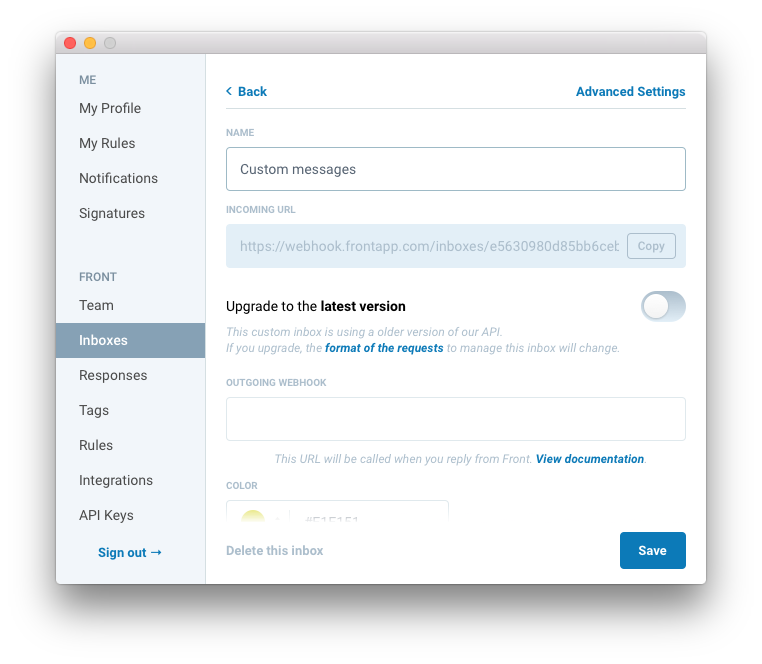
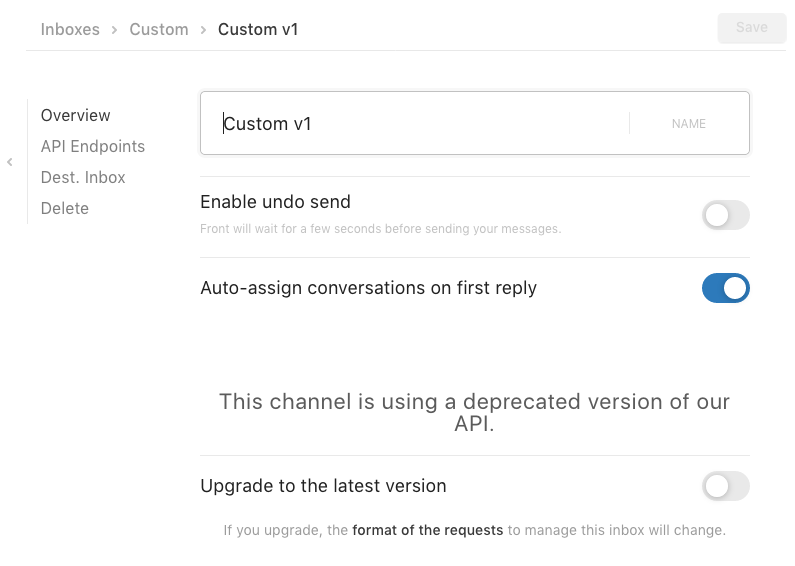
Update migration guide to match the new design

diff --git a/source/migration-guide.html.md b/source/migration-guide.html.md
@@ -49,7 +49,7 @@ If your custom inbox is used by <a href="https://aircall.io/features/front-integ
 
 **Step 2:** If you have one, update the script receiving the reply notification from Front to handle the [new data format](/#sending-messages).
 
-**Step 3:** In the application, go to Settings > Inboxes, select the custom inbox you want to upgrade and click on the switch to "Upgrade to the latest version"
+**Step 3:** In the application, go to Settings > Inboxes > select the inbox > select the channel you want to upgrade and click on the switch to "Upgrade to the latest version"
 
 # Webhooks
 
@@ -59,6 +59,8 @@ The new version of the webhooks uses the new data structure for [events](/#event
 
 To ensure that your data can only be read by you, we now send only the type, ID and link of the resources of an event. You can then simply send an authenticated request to the provided link to fetch the details about an event.
 
+We also now sign the webhooks so you can check the data integrity. 
+
 ## How to upgrade?
 
 > ![Upgrade webhooks](migration-guide/webhooks.png)
@@ -66,4 +68,4 @@ To ensure that your data can only be read by you, we now send only the type, ID 
 
 **Step 1:** Update the script receiving the events
 
-**Step 2:** In the application, go to Settings > Integrations > Webhooks and click on the button "Upgrade now"
+**Step 2:** In the application, go to Settings > API & Integrations > Webhooks and click on the button "Upgrade now"
